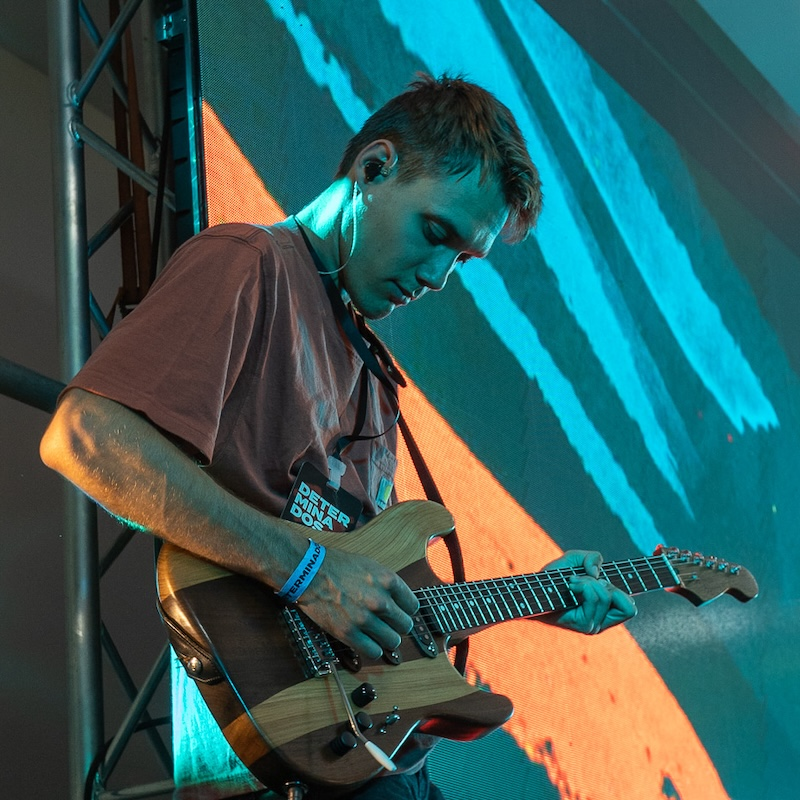
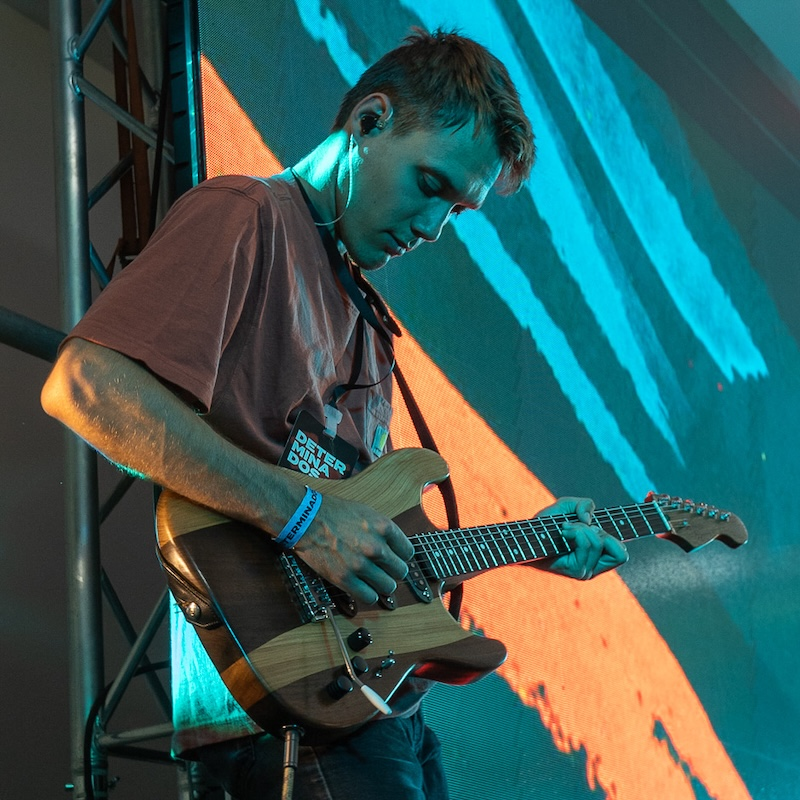
finished about page

diff --git a/about.html b/about.html
@@ -34,10 +34,10 @@
     </nav>
 
     <div class="desktop-only">
-        <header><h1>About<span class="gradient-text">me</span>.</h1></header>
+        <header><h1>Hi. I'm<span class="gradient-text">Connor</span>.</h1></header>
     </div>
     <div class="mobile-only">
-        <header><h1>About<br><span class="gradient-text">me</span>.</h1></header>
+        <header><h1>Hi. I'm<span class="gradient-text">Connor</span>.</h1></header>
     </div>
 
     <main>
@@ -45,25 +45,40 @@
             <div class="about-content">
                 <div class="about-text">
                     <p>
-                        Hi! I'm Connor, a designer and animator passionate about creating compelling visual experiences. 
-                        With a background in motion design and digital creativity, I work with brands and businesses to bring 
-                        their ideas to life through animation, web design, and creative direction.
+                        <b>I make stuff look good. Designer, animator, creator.</b> 
                     </p>
                     <p>
-                        When I'm not working on client projects, you'll find me exploring new design trends, experimenting 
-                        with animation techniques, or collaborating with other creative professionals. I believe in the power 
-                        of thoughtful design to communicate ideas and connect with audiences.
+                        Excitement for brands, products, and visions is sparked by eye-catching design and compelling motion. 
+                        That attention to detail is what lets everyone know you care about the presentation. The details.
+                        The small things.
                     </p>
                     <p>
-                        I'm always interested in taking on new projects and meeting creative individuals. Feel free to reach 
-                        out if you'd like to collaborate or just chat about design!
+                        Between projects, I'll be shredding on my electric guitar, trying a new recipe, or growing into
+                        a better soon–to–be husband.
                     </p>
+                    <p>
+                        If you're making something big, I'll help make it bigger. <b><i>Reach out!</i></b>
+                    </p>
+
                 </div>
 
-                <div class="about-images">
-                    <img src="https://via.placeholder.com/400x300?text=Photo+1" alt="Connor working on a project" class="about-photo">
-                    <img src="https://via.placeholder.com/400x300?text=Photo+2" alt="Connor at a creative event" class="about-photo">
-                    <img src="https://via.placeholder.com/400x300?text=Photo+3" alt="Connor's creative workspace" class="about-photo">
+                <div class="carousel-container">
+                <div class="carousel-frame">
+                    <div class="carousel-track">
+                    <img src="imgs/about-0.jpg" alt="Portfolio photo 1" class="carousel-slide">
+                    <img src="imgs/about-1.jpg" alt="Portfolio photo 2" class="carousel-slide">
+                    <img src="imgs/about-2.jpg" alt="Portfolio photo 3" class="carousel-slide">
+                    <img src="imgs/about-3.jpg" alt="Portfolio photo 4" class="carousel-slide">
+                    </div>
+                </div>
+                
+                <div class="carousel-dots">
+                    <button class="dot active" data-index="0" aria-label="Go to photo 1"></button>
+                    <button class="dot" data-index="1" aria-label="Go to photo 2"></button>
+                    <button class="dot" data-index="2" aria-label="Go to photo 3"></button>
+                    <button class="dot" data-index="3" aria-label="Go to photo 4"></button>
+                </div>
+                </div>
                 </div>
             </div>
         </section>

diff --git a/script.js b/script.js
@@ -11,6 +11,10 @@ floatingLogo.addEventListener('contextmenu', function(e) {
     e.preventDefault();
 });
 
+
+
+
+
 /* Hamburger Icon Menu */
 const hamburgerMenu = document.getElementById('hamburgerMenu');
 const navLinks = document.getElementById('navLinks');
@@ -29,6 +33,9 @@ navLinks.querySelectorAll('a').forEach(link => {
     });
 });
 
+
+
+
 /* Autoplay on hover */
 document.querySelectorAll('.grid-item').forEach(item => {
     const video = item.querySelector('video');
@@ -44,3 +51,51 @@ document.querySelectorAll('.grid-item').forEach(item => {
     });
 });
 
+
+
+
+
+// Carousel functionality
+const carouselTrack = document.querySelector('.carousel-track');
+const dots = document.querySelectorAll('.dot');
+const totalSlides = dots.length;
+let currentIndex = 0;
+let autoplayTimer = null;
+
+// Function to move carousel to specific slide
+function goToSlide(index) {
+  currentIndex = index;
+  const offset = -index * 100;
+  carouselTrack.style.transform = `translateX(${offset}%)`;
+  
+  // Update dot indicators
+  dots.forEach((dot, i) => {
+    dot.classList.toggle('active', i === index);
+  });
+  
+  // Reset autoplay timer
+  resetAutoplay();
+}
+
+// Function to advance to next slide
+function nextSlide() {
+  currentIndex = (currentIndex + 1) % totalSlides;
+  goToSlide(currentIndex);
+}
+
+// Function to start/reset autoplay
+function resetAutoplay() {
+  clearInterval(autoplayTimer);
+  autoplayTimer = setInterval(nextSlide, 5000);
+}
+
+// Add click listeners to dots
+dots.forEach((dot) => {
+  dot.addEventListener('click', () => {
+    const index = parseInt(dot.dataset.index);
+    goToSlide(index);
+  });
+});
+
+// Start autoplay on page load
+resetAutoplay();

diff --git a/styles.css b/styles.css
@@ -507,7 +507,7 @@ footer {
 }
 
 .about-text p {
-    font-size: 1rem;
+    font-size: 1.3rem;
     line-height: 1.8;
     font-weight: 300;
     color: rgba(255, 255, 255, 0.9);
@@ -539,6 +539,68 @@ footer {
 .about-photo:nth-child(3) {
     margin-top: 1rem;
 }
+
+
+/* Carousel Container */
+.carousel-container {
+  width: 100%;
+  max-width: 500px;
+  margin: 0 auto;
+}
+
+/* Carousel Frame (Square Aspect Ratio) */
+.carousel-frame {
+  width: 100%;
+  aspect-ratio: 1 / 1;
+  overflow: hidden;
+  border-radius: 8px;
+  background-color: rgba(255, 255, 255, 0.05);
+}
+
+/* Carousel Track (Holds all slides) */
+.carousel-track {
+  display: flex;
+  width: 100%;
+  height: 100%;
+  transition: transform 0.6s ease-in-out;
+}
+
+/* Individual Carousel Slides */
+.carousel-slide {
+  width: 100%;
+  height: 100%;
+  flex-shrink: 0;
+  object-fit: cover;
+}
+
+/* Carousel Dots Container */
+.carousel-dots {
+  display: flex;
+  justify-content: center;
+  gap: 12px;
+  margin-top: 20px;
+}
+
+/* Individual Dot Button */
+.dot {
+  width: 12px;
+  height: 12px;
+  border-radius: 50%;
+  border: none;
+  background-color: rgba(255, 255, 255, 0.3);
+  cursor: pointer;
+  transition: background-color 0.3s ease;
+  padding: 0;
+}
+
+.dot:hover {
+  background-color: rgba(255, 255, 255, 0.6);
+}
+
+.dot.active {
+  background-color: rgba(255, 255, 255, 0.9);
+}
+
 
 
 /* Responsive Design for About Page */
